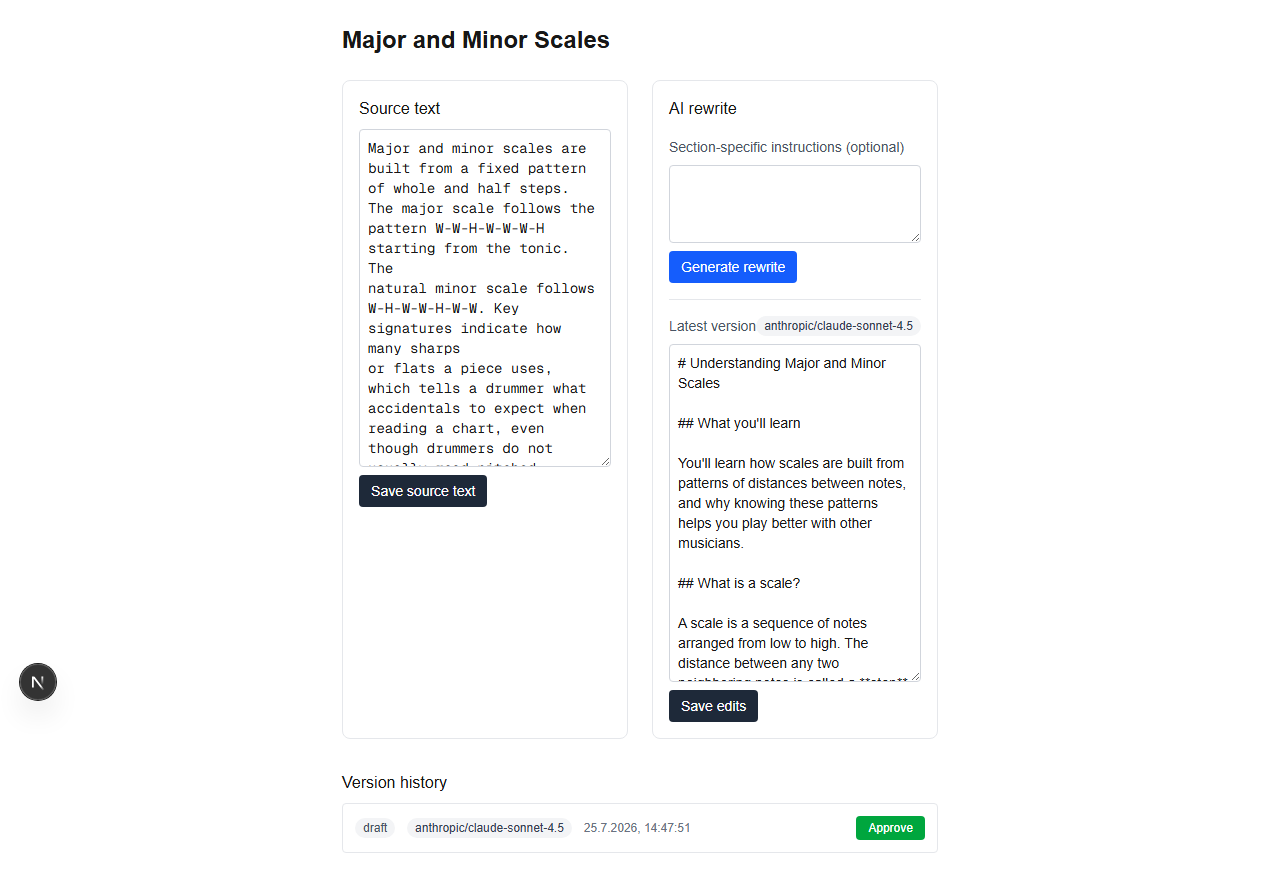
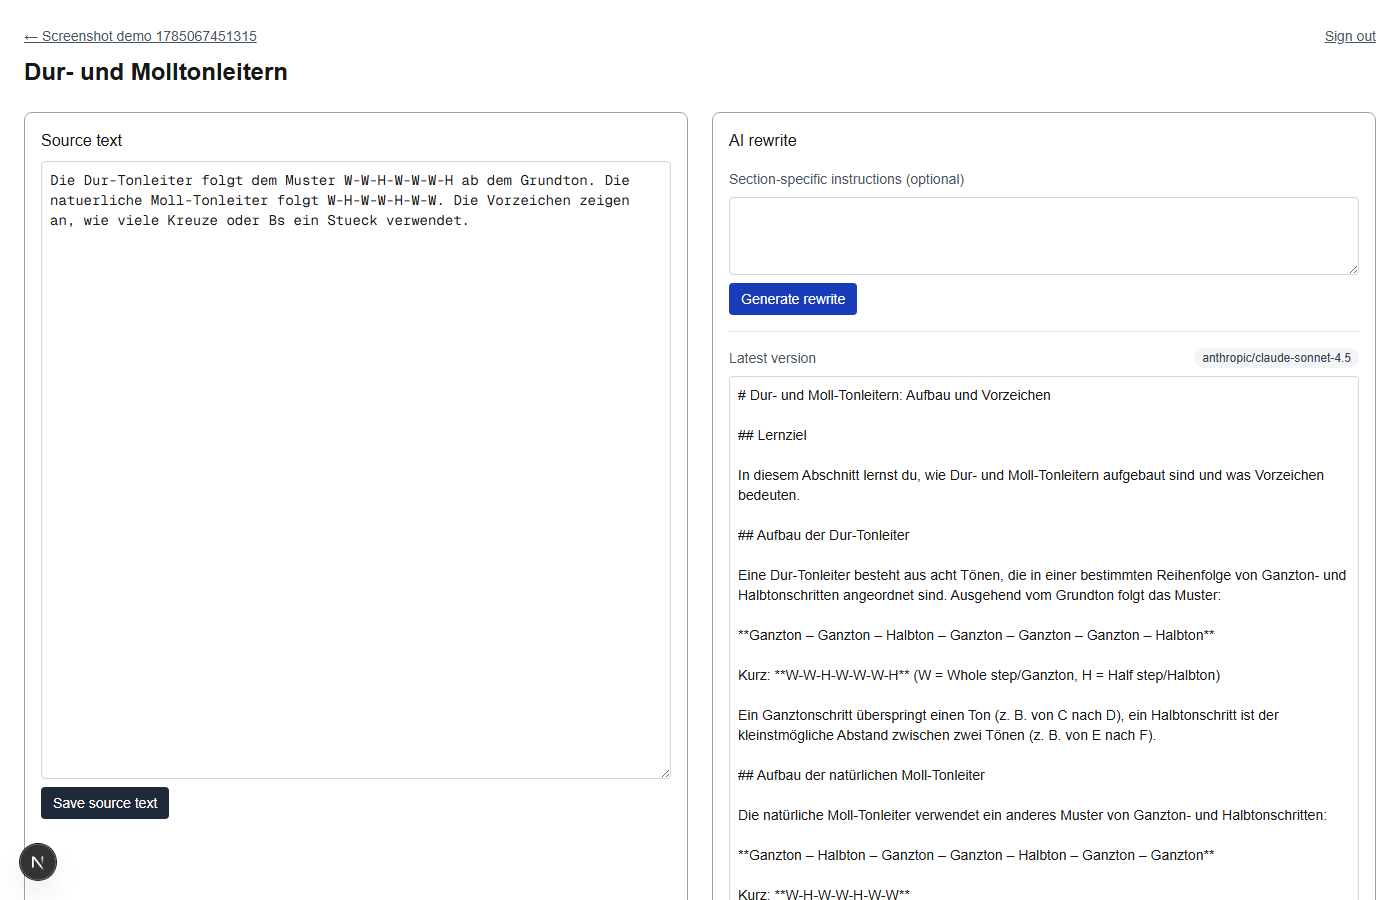
docs: reflect post-PR UI changes, fix stale references, refresh evidence
- CLAUDE.md: added /signup to the route list, updated the component
  list (ProjectRow, DeleteSectionButton, ProjectSettingsForm), removed
  the stale /api/rewrite reference (all model calls are server
  actions - no such route exists).
- README.md: same /api/rewrite fix, added delete to the core user flow.
- docs/TEST_PLAN.md: moved "Approval" out of "Playwright tests" into
  "Mandatory manual tests" since it was never implemented as an
  automated spec (a pre-existing inaccuracy the whole-branch review had
  already flagged); added a manual "Delete project/section" entry.
- SPRINT3PROJECTHISTORY.md: logged the whole post-PR UI iteration
  phase, including two real playwright.config.ts bugs found and fixed
  along the way (shared-account worker race; reuseExistingServer
  silently hitting a real OpenRouter call against a manually-run dev
  server instead of erroring).
- docs/screenshot.png: recaptured against the current UI.

diff --git a/sprint-project/SPRINT3PROJECTHISTORY.md b/sprint-project/SPRINT3PROJECTHISTORY.md
@@ -172,3 +172,94 @@ and B as a regression check (both remained correct, in German, with
 figure placeholders intact and no editorial preface). Full transcripts
 and the rule-by-rule comparison table are in
 `.superpowers/sdd/task-19-report.md`.
+
+## Task 20: final review, PR, and post-PR UI iteration
+
+Ran the final whole-branch review (Opus) + Supabase/Next.js/Vercel
+security scanners, all scoped to the full diff vs `main`. No Critical
+findings anywhere. Fixed the 4 highest-priority Important findings before
+opening the PR: dark-mode illegibility (unused scaffold CSS removed),
+dead root route (`/` now redirects by auth state instead of showing
+`create-next-app` boilerplate), two silently-swallowed failure paths
+(approve/settings-save now surface errors), and ran `npm run build` for
+the first time on this branch to confirm `OPENROUTER_API_KEY` never
+appears in `.next/static`/`.next/server` — closing a previously
+unperformed mandatory `docs/TEST_PLAN.md` check. Opened
+[PR #4](https://github.com/pehhalt/BwAI-sprint3/pull/4) with both reports
+recorded in the description. One Next.js-scanner "High" and one
+Supabase-scanner "Medium" both re-flag the same intentional design choice
+(RLS-only authorization, no app-level ownership backstop) already
+documented in `CLAUDE.md` and endorsed across four earlier task reviews —
+left as-is, not a defect.
+
+After the PR was open, the user reviewed the running app directly and
+asked for a round of UI/UX polish, executed iteratively (subagent per
+larger change, direct edits for small CSS-only tweaks, per the user's
+explicit "skip full testing/commit" instruction for those):
+
+- **Delete project** (dashboard) and **delete section** (project page),
+  both with a `window.confirm()` guard. Cascading deletion is handled
+  entirely by the existing `on delete cascade` foreign keys — no manual
+  application-level cascade logic.
+- **Wider side-by-side editor layout** on the section page (source/AI
+  rewrite panes close to A4 width) — surfaced and fixed a real CSS bug
+  where `max-w-[1800px]` wasn't being respected due to a `flex` +
+  `mx-auto` interaction suppressing `align-items: stretch`; fixed with an
+  explicit `w-full`.
+- **Dashboard and section lists converted from tiles to tables** with
+  alternating row shading, and a fixed a classic HTML `table-layout: auto`
+  bug where the delete-button column drifted toward the middle as row
+  content varied — fixed by making the title column `w-full` and the
+  action columns `whitespace-nowrap`.
+- **Approval-status tag** added to the sections table (green
+  "Approved" / gray "Not approved"), requiring a new per-project query for
+  approved `rewrite_versions`.
+- Consistent **darker border** (`border-gray-400`, up from the barely
+  visible `border-gray-200`) applied to every panel/frame across the app;
+  settings page widened and bordered to match.
+- **Preview/print spacing**: added `mb-12` after the project title and
+  after each section so consecutive sections in the printed output no
+  longer run directly together.
+- **Back-links added to every nested page** (section, settings, preview →
+  back to project; project → back to dashboard), each paired with
+  `SignOutButton` in the same header row, right-aligned.
+- **Sign-in and sign-up split into separate pages** (`/login`, `/signup`),
+  referencing `mid-sprint-project`'s existing pattern for avoiding layout
+  jump between them: identical container width, padding, and card
+  structure on both pages, just "a bit wider" (30rem vs. their 26rem) and
+  using this project's `border-gray-400` convention instead of a CSS
+  variable.
+- Button color darkened (`bg-blue-600` → `bg-blue-800`) across all 5
+  buttons that used it.
+
+**Two real operational bugs found and fixed along the way**, both in
+`playwright.config.ts`, not application code:
+
+1. `workers: 1` pinned — `rewrite.spec.ts` and `cross-user.spec.ts` share
+   the same `E2E_TEST_EMAIL` account and can race each other under
+   default multi-worker execution (found while verifying the table
+   conversion).
+2. `reuseExistingServer: false` — the local default (`true`) silently
+   reuses whatever is already listening on port 3000, including a
+   manually-run `npm run dev` kept alive for live UI review, without
+   `E2E_TEST_MODE` set. This was caught live: `rewrite.spec.ts` failed
+   because it hit a real running dev server and got real (if odd) model
+   output instead of the deterministic mock. A same-directory second
+   `next dev` is also refused outright by Next.js 16 regardless of port,
+   so a manual dev server must be stopped before running `npm run
+   test:e2e`, not just pointed at a different port.
+
+Documentation updated to match: `CLAUDE.md`'s route and component lists
+(added `/signup`, `ProjectRow`/`DeleteSectionButton`/`ProjectSettingsForm`,
+removed the stale `/api/rewrite` reference — model calls are server
+actions only, there is no such route), `README.md`'s core user flow and
+security-criteria wording (same `/api/rewrite` fix, delete mention added),
+and `docs/TEST_PLAN.md` (moved the "Approval" scenario out of "Playwright
+tests" into "Mandatory manual tests" since it was never actually
+implemented as an automated spec — a pre-existing inaccuracy the original
+whole-branch review had already flagged — and added a "Delete
+project/section" manual-test entry). Screenshot recaptured to reflect the
+current UI. A second whole-branch review + security-scanner pass was run
+covering everything in this section (delete actions are genuinely
+security/data-integrity relevant; `/signup` is a new auth surface) before
+finalizing.

diff --git a/sprint-project/CLAUDE.md b/sprint-project/CLAUDE.md
@@ -60,31 +60,40 @@ Suggested route structure:
 
 ```text
 /login
+/signup
 /dashboard
 /projects/new
 /projects/[projectId]
 /projects/[projectId]/sections/[sectionId]
 /projects/[projectId]/preview
 /projects/[projectId]/settings
-/api/rewrite
 ```
+
+`/login` and `/signup` are separate pages (not a combined form), matching identical width/padding/card structure so navigating between them causes no layout shift.
+
+All model calls happen through server actions (`app/actions/*.ts`), not a dedicated route handler — there is no `/api/rewrite` endpoint.
 
 All routes above `/login` must be covered by a single protection mechanism (e.g. middleware over the route group), not per-page checks — a signed-out visitor must never reach any of them, including by direct URL.
 
 ## Core components
 
-- `ProjectCard`
+- `ProjectRow` (a project table row — dashboard lists projects as a table, not cards)
 - `ProjectForm`
-- `SectionList`
+- `ProjectSettingsForm`
+- `SectionForm`
 - `SourceEditor`
 - `RewriteEditor`
-- `RewriteSettings`
 - `VersionList`
 - `ApprovalButton`
+- `DeleteSectionButton`
 - `DocumentPreview`
 - `ModelBadge`
+- `LoginForm` / `SignUpForm` (separate pages, `/login` and `/signup`)
+- `SignOutButton`
 
 Avoid premature component abstraction. Extract only repeated or conceptually stable pieces.
+
+Project and section lists render as tables (alternating row shading via `bg-white`/`bg-gray-100`), not card grids. Panels/frames (forms, editors, list containers) use a consistent `rounded-lg border border-gray-400 p-4` wrapper. Deleting a project or section requires a `window.confirm()` before calling its server action; both cascade to their child rows via the database's `on delete cascade` foreign keys, not manual application-level deletion.
 
 ## Minimum database model
 

diff --git a/sprint-project/README.md b/sprint-project/README.md
@@ -52,7 +52,7 @@ Source text is pasted or typed as Markdown/plain text; there is no PDF upload or
 
 ## Core user flow
 
-1. Sign in.
+1. Sign in (or create an account — sign-in and sign-up are separate pages, `/login` and `/signup`).
 2. Create a project.
 3. Set project-wide rewriting rules.
 4. Add a source section.
@@ -62,6 +62,8 @@ Source text is pasted or typed as Markdown/plain text; there is no PDF upload or
 8. Save and approve a version.
 9. Preview all approved sections.
 10. Print or save the preview as PDF.
+
+Projects and sections can also be deleted (with confirmation); deleting a project deletes its sections and rewrite versions, and deleting a section deletes its rewrite versions, via the database's `on delete cascade` foreign keys.
 
 ## Data model
 
@@ -145,7 +147,7 @@ See `prompts/system-prompt.md`.
 
 ## Security acceptance criteria
 
-- Signed-out visitors are redirected away from every protected route and resource — not only `/dashboard`, but every project, section, and preview URL, and `/api/rewrite`.
+- Signed-out visitors are redirected away from every protected route and resource — not only `/dashboard`, but every project, section, and preview URL. (All model calls happen through server actions, not a dedicated route handler — there is no `/api/rewrite` endpoint to separately protect.)
 - User A cannot list, read, update, or delete User B's projects, sections, or rewrite versions.
 - Every user-data table has RLS enabled.
 - No service-role key appears in client-accessible code or variables.

diff --git a/sprint-project/docs/TEST_PLAN.md b/sprint-project/docs/TEST_PLAN.md
@@ -31,6 +31,24 @@
 5. Confirm a generic not-found or unauthorized-safe response.
 6. Confirm User B's dashboard does not list User A's project.
 
+### Approval
+
+Manually verified only (not an automated Playwright spec — matches this project's lean testing philosophy of 3 required specs plus targeted unit tests):
+
+1. Create two rewrite versions for a section.
+2. Approve the first.
+3. Approve the second.
+4. Confirm only the second is approved (and the first, if not manually edited, reverts to draft).
+5. Confirm the preview displays the second.
+
+### Delete project / delete section
+
+Manually verified only, same rationale as above:
+
+1. Create a project with at least one section and rewrite version.
+2. Delete the section; confirm it disappears from the list and its rewrite versions are gone.
+3. Delete the project; confirm it disappears from the dashboard and its remaining sections/rewrite versions are gone (cascading via the database's foreign keys, not manual application-level deletion).
+
 ## Playwright tests
 
 ### Signed-out lockout
@@ -50,14 +68,6 @@ For routine CI, intercept or mock the application AI endpoint so tests are deter
 - Confirm it appears and is persisted.
 
 Maintain one separate manual or non-default integration test that calls OpenRouter for real.
-
-### Approval
-
-- Create two rewrite versions.
-- Approve the first.
-- Approve the second.
-- Confirm only the second is approved.
-- Confirm preview displays the second.
 
 ## Security checks
 
